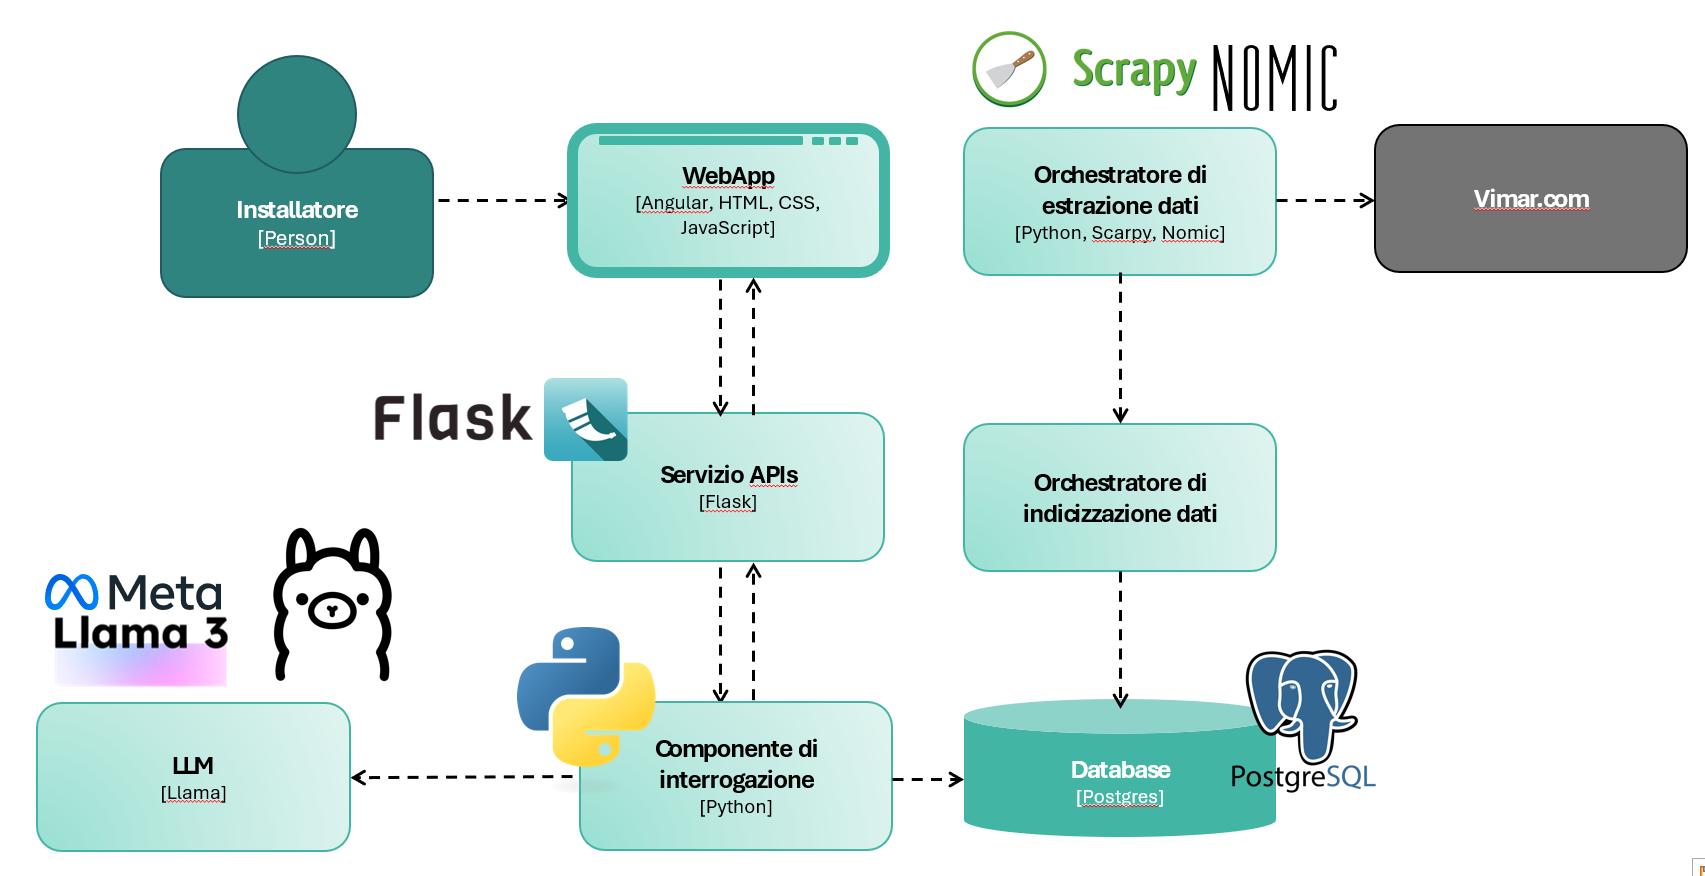
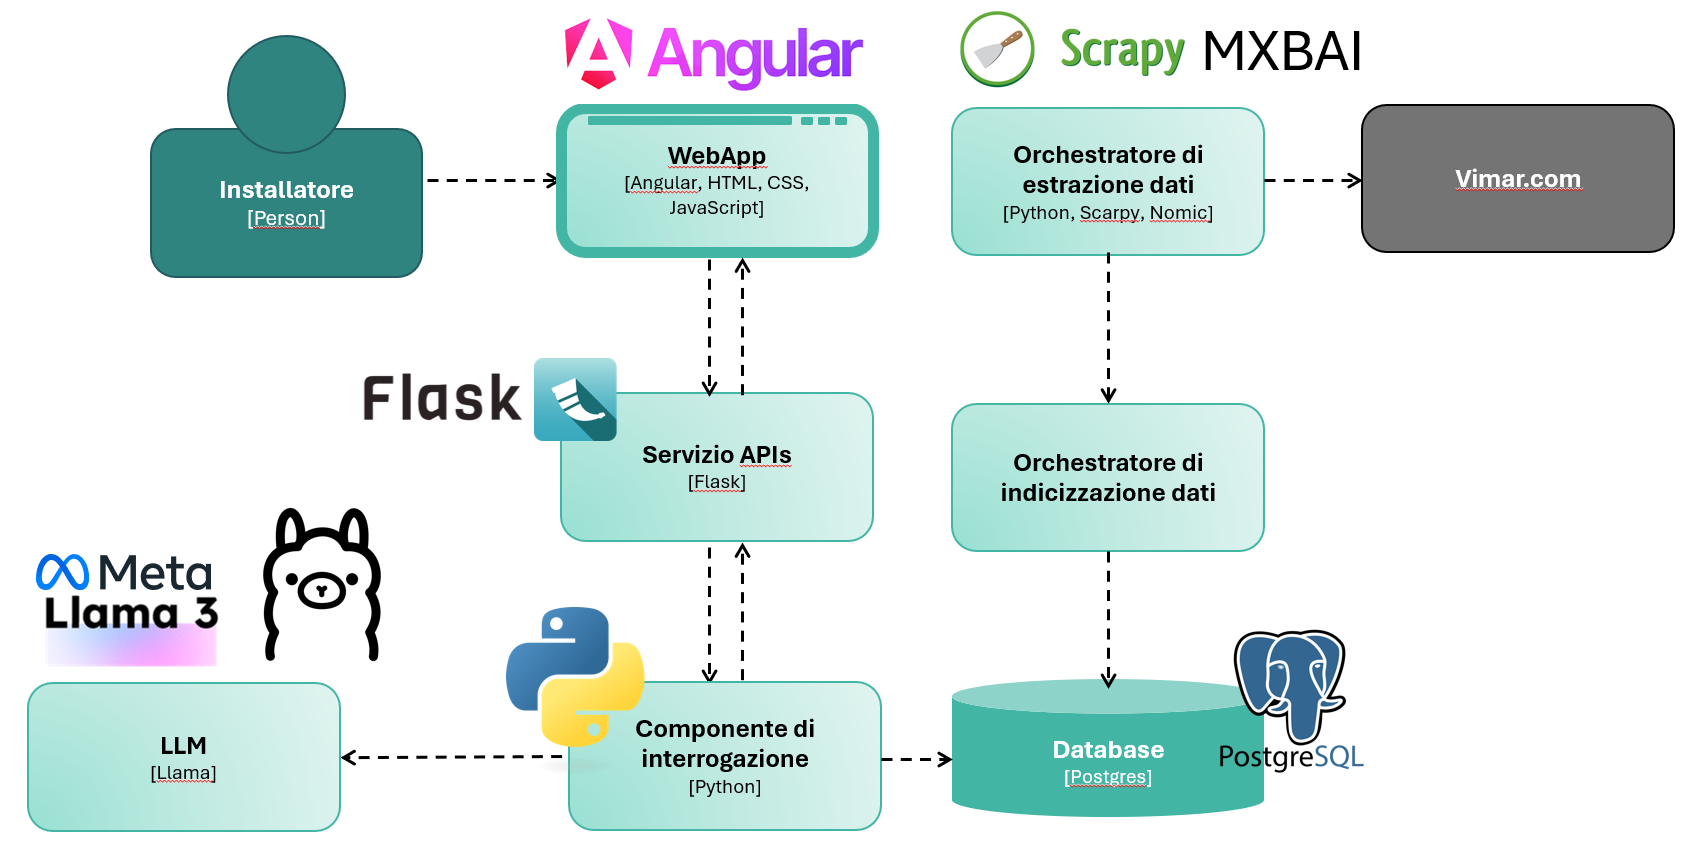
update & Fix

diff --git a/src/3 - PB/Specifica-Tecnica/contents/system-architecture.tex b/src/3 - PB/Specifica-Tecnica/contents/system-architecture.tex
@@ -1,3 +1,5 @@
+
+
 \section{Architettura di sistema }
 \subsection{Modello Architetturale}
 Il progetto Vimar GENIALE rappresenta un’applicazione moderna e avanzata per la gestione di conversazioni intelligenti, sviluppata con un’architettura distribuita e tecnologie all’avanguardia. La sua struttura è pensata per garantire flessibilità, scalabilità e manutenibilità nel tempo, integrando diversi componenti che collaborano per offrire un’esperienza fluida ed efficiente.Per la progettazione del software, si possono adottare due diverse strategie architetturali: l’architettura a strati e l’architettura esagonale.
@@ -16,7 +18,20 @@ Un esempio pratico di questa architettura può essere visto come un aeroporto, d
 \end{itemize}
 
 L’\textbf{architettura esagonale} è la scelta ideale per \textbf{ Vimar GENIALE} perché garantisce una maggiore flessibilità e modularità rispetto all’\textbf{architettura a strati}. La sua capacità di isolare le dipendenze esterne, migliorare la testabilità, facilitare la scalabilità e mantenere il codice ben organizzato la rende perfetta per un progetto che integra tecnologie avanzate e che potrebbe evolversi nel tempo.
-\begin{figure}[h]
+\begin{figure}[H]
     \centering
-    \includegraphics[width=1\textwidth]{Esagonale.png}
+    \includegraphics[width=\textwidth]{Esagonale.png}
+    \caption{Schema architetturale del sistema}
+    \label{fig:architettura}
 \end{figure}
+    \item \textbf{Data Extraction & Indexing (Scrapy e Nomic)}: raccoglie dati dal web (es. Vimar.com), li elabora e li indicizza, rendendoli facilmente consultabili dal database e dall'AI.
+    \item \textbf{AI (Meta Llama 3)}: utilizzato per elaborazioni avanzate, supporta il sistema nell'analisi dei dati, nella generazione di risposte intelligenti e nell'arricchimento delle informazioni estratte.
+    \item \textbf{Database (PostgreSQL)}: memorizza i dati raccolti ed elaborati, garantendo un accesso rapido ed efficiente tramite il backend.
+    \item \textbf{Backend (API Flask e Python)}: funge da intermediario tra il frontend e gli altri componenti, gestendo le richieste dell’utente, eseguendo la logica di business e comunicando con il database e i servizi AI.
+    \item \textbf{Frontend (WebApp)}: sviluppato in Angular, permette agli utenti di interagire con il sistema attraverso un’interfaccia intuitiva, inviando richieste e visualizzando i dati elaborati.
+    \subsection{Modello Architetturale}
+    \item Il diagramma illustra il flusso dei dati all'interno del sistema, evidenziando le varie fasi di acquisizione, elaborazione, archiviazione e visualizzazione. Mostra le entità coinvolte e le loro interconnessioni, offrendo una visione chiara di come le informazioni vengono gestite e trasformate lungo il processo.
+    \item immagine
+    
+    
+    

diff --git a/src/3 - PB/Specifica-Tecnica/contents/versioning.tex b/src/3 - PB/Specifica-Tecnica/contents/versioning.tex
@@ -6,8 +6,6 @@
         \hline
         &  &  &  &  \\
         \hline
-        0.0.3 & 2025-03-20 & Alessandro Benin & Progettista & conclusione capitolo 2, inizio 3 \\
-        \hline
         0.0.2 & 2025-02-26 & Ion Bourosu & Progettista & Descrizione di Flask, Angular e Scrapy \\
         \hline
         0.0.1 & 2025-02-25 & Derek Gusatto & Responsabile & Prima impostazione, Introduzione, Tecnologie (inizio) \\
